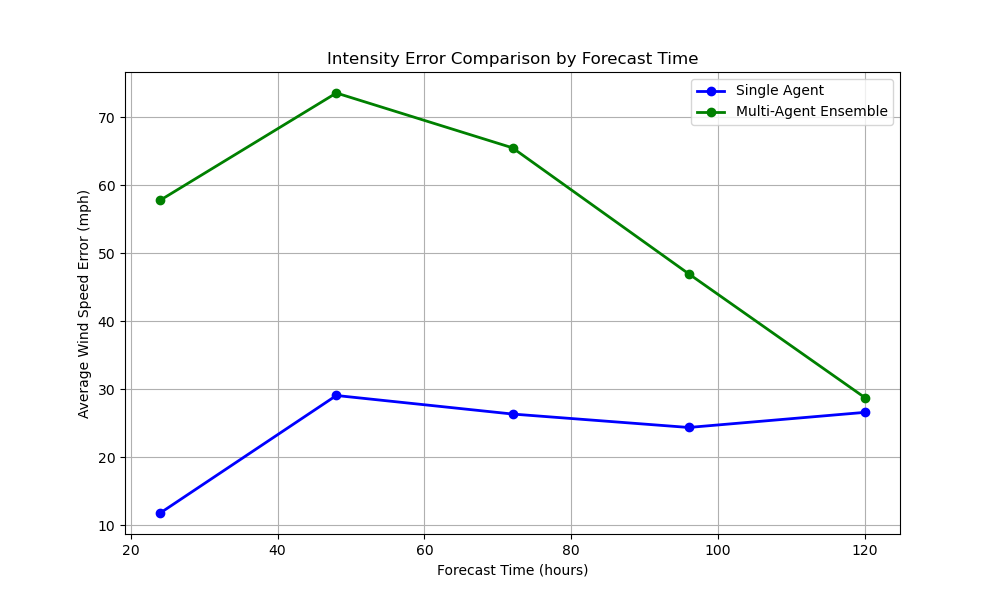
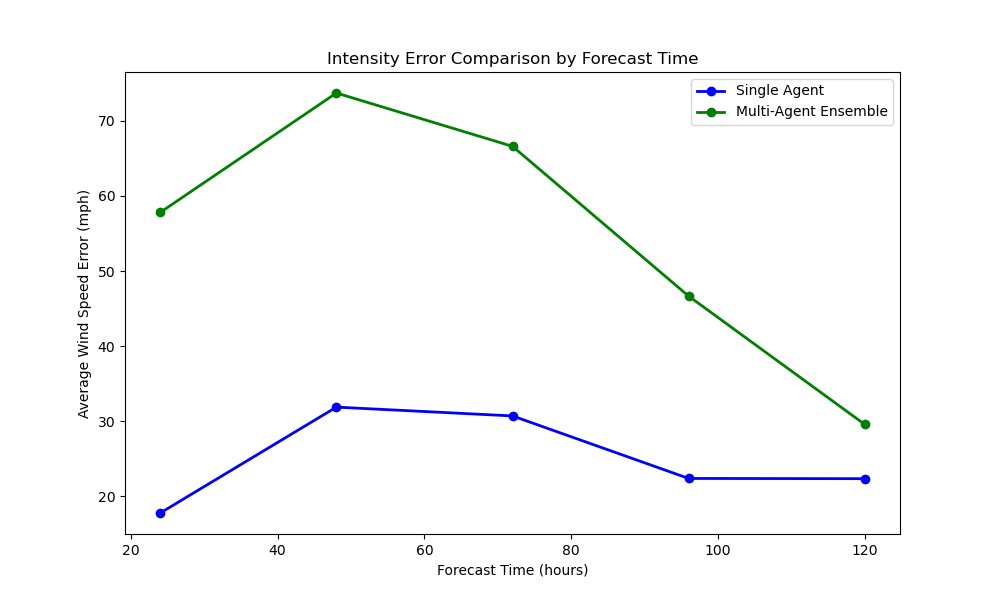
updated plt.grid in compare_agents file

diff --git a/backend/compare_agents.py b/backend/compare_agents.py
@@ -54,18 +54,18 @@ def generate_comparison_charts(single_results: Dict, multi_results: Dict):
     # 1. Position Error by Forecast Time comparison
     plt.figure(figsize=(10, 6))
     times = [24, 48, 72, 96, 120]
-    
+
     single_errors = [single_results["summary"]["overall"]["by_time"][t]["avg_position_error"] 
                     for t in times]
     multi_errors = [multi_results["summary"]["overall"]["by_time"][t]["avg_position_error"] 
-                   for t in times]
-    
+                for t in times]
+
     plt.plot(times, single_errors, 'o-', linewidth=2, label='Single Agent', color='blue')
     plt.plot(times, multi_errors, 'o-', linewidth=2, label='Multi-Agent Ensemble', color='green')
     plt.xlabel('Forecast Time (hours)')
     plt.ylabel('Average Position Error (km)')
     plt.title('Position Error Comparison by Forecast Time')
-    plt.grid(True)
+    plt.grid(False)
     plt.legend()
     plt.savefig('comparison_results/position_error_comparison.png')
     
@@ -82,7 +82,7 @@ def generate_comparison_charts(single_results: Dict, multi_results: Dict):
     plt.xlabel('Forecast Time (hours)')
     plt.ylabel('Average Wind Speed Error (mph)')
     plt.title('Intensity Error Comparison by Forecast Time')
-    plt.grid(True)
+    plt.grid(False)
     plt.legend()
     plt.savefig('comparison_results/intensity_error_comparison.png')
     
@@ -115,7 +115,7 @@ def generate_comparison_charts(single_results: Dict, multi_results: Dict):
     plt.ylabel('Average Position Error (km)')
     plt.title('Position Error Comparison by Ocean Basin')
     plt.xticks(x, basin_labels)
-    plt.grid(True, axis='y')
+    plt.grid(False)
     plt.legend()
     plt.tight_layout()
     plt.savefig('comparison_results/basin_error_comparison.png')
@@ -153,7 +153,7 @@ def generate_comparison_charts(single_results: Dict, multi_results: Dict):
     plt.ylabel('Average Position Error (km)')
     plt.title('Position Error Comparison by Hurricane')
     plt.xticks(x, hurricane_names, rotation=45, ha='right')
-    plt.grid(True, axis='y')
+    plt.grid(False)
     plt.legend()
     plt.tight_layout()
     plt.savefig('comparison_results/hurricane_error_comparison.png')
@@ -182,7 +182,7 @@ def generate_comparison_charts(single_results: Dict, multi_results: Dict):
     plt.ylabel('Error')
     plt.title('Overall Performance Comparison')
     plt.xticks(x, metrics)
-    plt.grid(True, axis='y')
+    plt.grid(False)
     plt.legend()
     plt.tight_layout()
     plt.savefig('comparison_results/overall_comparison.png')
